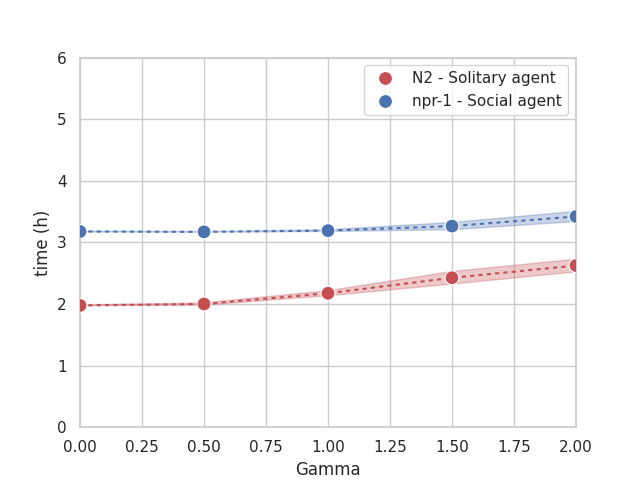
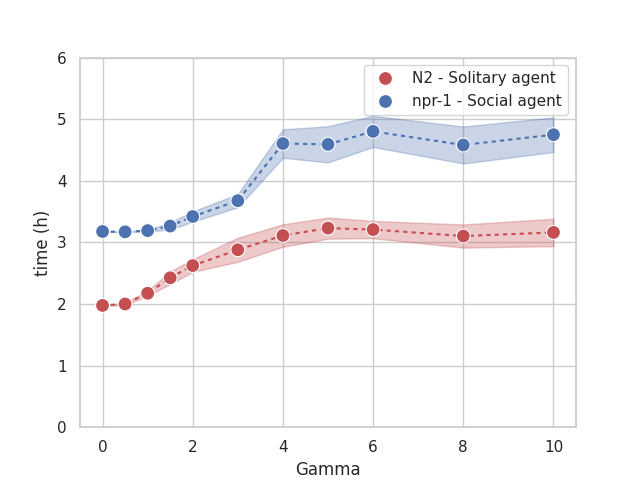
Adding zoomed plot

diff --git a/plotting.py b/plotting.py
@@ -35,11 +35,14 @@ def plot_mean_with_df(file_name: str,x_axes:str,group:str = "Social",zoomed:bool
     plt.xlabel(x_axes)
     if zoomed:
         plt.xlim(0, 2)
+        plt.ylim(1.75,3)
+    else:
+        plt.ylim(0, None)
+        plt.yticks(range(0, int(max(sp['Mean time'])) + 3))
     if x_axes == "Number of spots":
         plt.xticks(sp[x_axes])
     plt.ylabel('time (h)')
-    plt.ylim(0, None)
-    plt.yticks(range(0, int(max(sp['Mean time'])) + 3))
+
     colors = ['#C44E52', '#4C72B0']
     scatter = sns.scatterplot(data=sp, x=x_axes, y='Mean time', hue=group, palette=colors, s=100, zorder=10)
     handles, _ = scatter.get_legend_handles_labels()
@@ -49,8 +52,10 @@ def plot_mean_with_df(file_name: str,x_axes:str,group:str = "Social",zoomed:bool
     for handle in custom_legend.legendHandles:
         handle.set_alpha(1)
 
-
-    plt.savefig(plot_dir + file_name + ".png")
+    if zoomed:
+        plt.savefig(plot_dir + file_name + "_zoomed.png")
+    else:
+        plt.savefig(plot_dir + file_name + ".png")
     plt.show()
 
 
@@ -92,5 +97,3 @@ def plot_frequencies(file_name: str, legend):
         os.makedirs(plot_dir)
     plt.savefig(plot_dir + file_name + "_frequencies.png")
     plt.show()
-
-plot_frequencies("10gen_1_food_clustering","Gamma")
